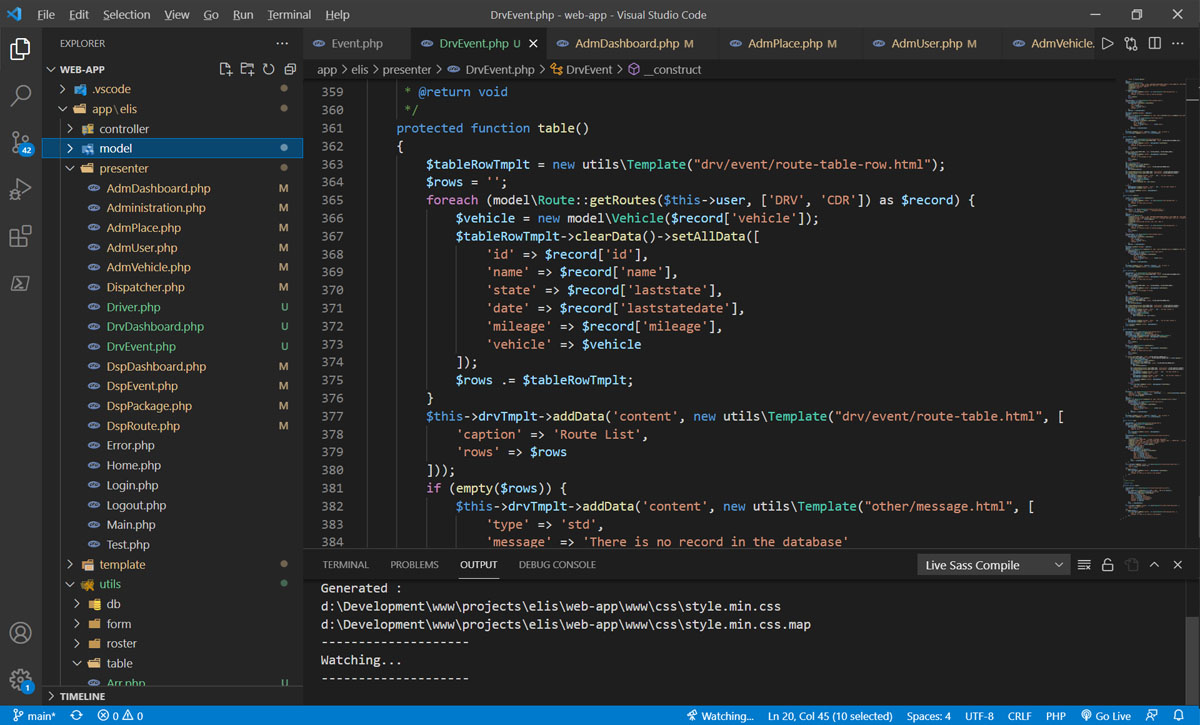
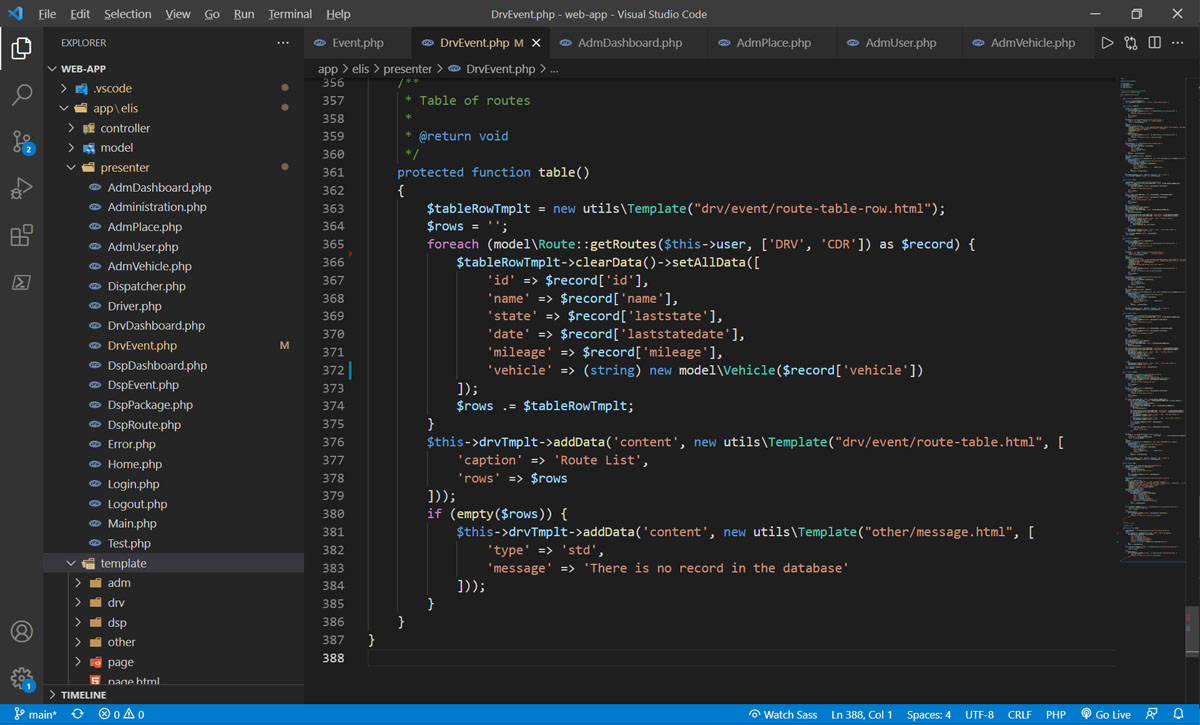
0.1.3 DrvEvent, web presentation image

diff --git a/web-app/app/elis/presenter/DrvEvent.php b/web-app/app/elis/presenter/DrvEvent.php
@@ -363,14 +363,13 @@ class DrvEvent extends Driver
         $tableRowTmplt = new utils\Template("drv/event/route-table-row.html");
         $rows = '';
         foreach (model\Route::getRoutes($this->user, ['DRV', 'CDR']) as $record) {
-            $vehicle = new model\Vehicle($record['vehicle']);
             $tableRowTmplt->clearData()->setAllData([
                 'id' => $record['id'],
                 'name' => $record['name'],
                 'state' => $record['laststate'],
                 'date' => $record['laststatedate'],
                 'mileage' => $record['mileage'],
-                'vehicle' => $vehicle
+                'vehicle' => (string) new model\Vehicle($record['vehicle'])
             ]);
             $rows .= $tableRowTmplt;
         }
